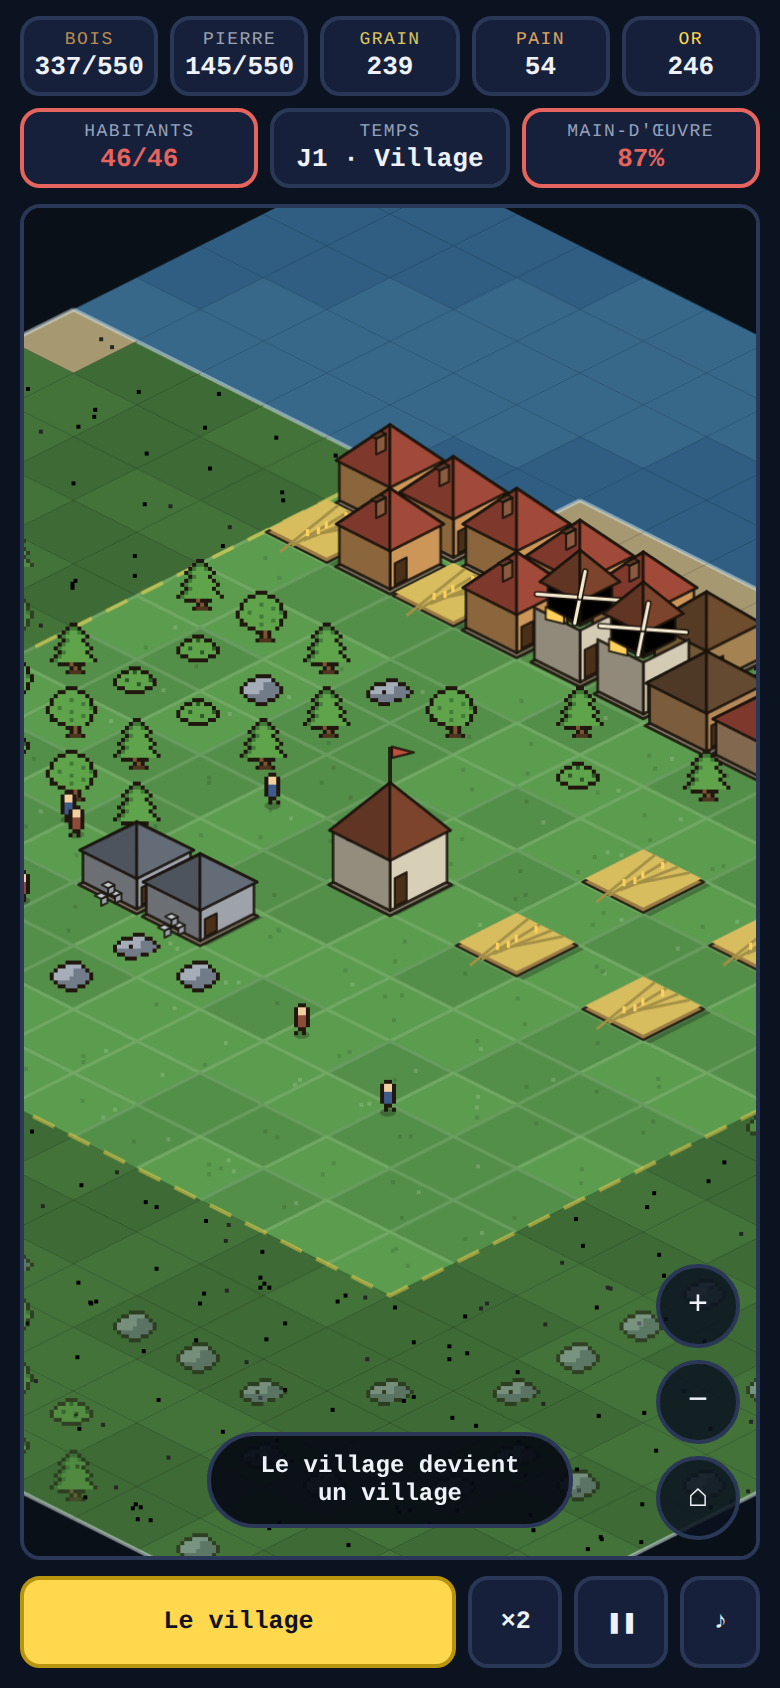
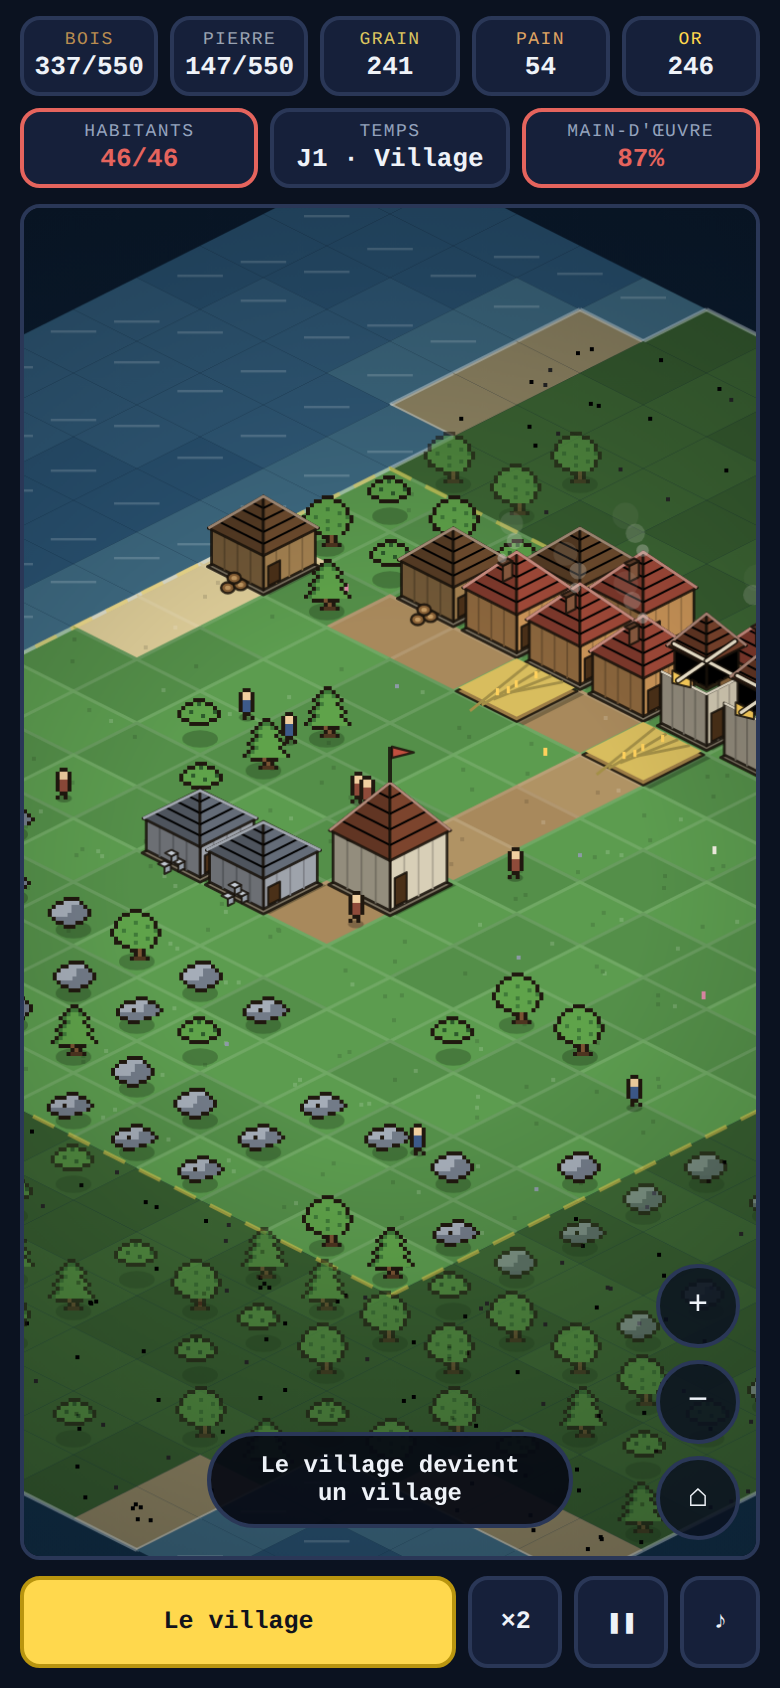
Village : reprise complète du rendu
Le premier jet donnait des cubes plats avec des étiquettes flottantes. Rendu
repris de fond en comble, sans quitter le dessin par code :

- toitures en pente à quatre pans, avec rangs de tuiles et faîtage éclairé ;
- murs à colombage et sablière sous le toit — un mur lisse fait carton ;
- chaque métier se reconnaît à sa silhouette : cheminée qui fume sur les
  maisons, tas de rondins, blocs taillés, auvent rayé du marché, portes de
  grange, tour et ailes du moulin, bannière de l'hôtel de ville ;
- chemins de terre reliant chaque bâtiment à l'hôtel de ville : c'est ce
  réseau, plus que les bâtiments, qui fait lire un village ;
- sol vivant : mouchetis stable, fleurs et cailloux semés, ombres au pied de
  chaque arbre, léger balancement du feuillage ;
- eau : hauts-fonds près du rivage, écume côté terre, crêtes qui dérivent ;
- l'île flotte sur un dégradé de haute mer, et une vignette ramène le regard
  au centre.

Les vignettes du panneau de construction montrent désormais le bâtiment
lui-même en miniature : ce qu'on choisit est exactement ce qu'on verra.

Claude-Session: https://claude.ai/code/session_016AFHnMswojyGxiSwEmvPpk

diff --git a/village/js/render.js b/village/js/render.js
@@ -19,7 +19,11 @@
     grassAlt: "#548f49",
     sand: "#e0cf9a",
     water: "#3f7fb0",
-    waterAlt: "#4a8cbb"
+    waterAlt: "#4a8cbb",
+    shallow: "#5fa3c8",
+    road: "#b09364",
+    roadAlt: "#a8895c",
+    flower: ["#f4f1e4", "#ffd15c", "#e08aa8"]
   };
 
   /* Habitants qui déambulent : ils ne servent à rien, et ils changent tout —
@@ -42,10 +46,38 @@
     return { c: World.hall.c, r: World.hall.r };
   }
 
+  /* Chemins : chaque bâtiment est relié à l'hôtel de ville par un tracé en
+     équerre. C'est ce réseau, plus que les bâtiments eux-mêmes, qui fait lire
+     un village plutôt qu'une collection de cabanes. Recalculé seulement quand
+     le village change. */
+  var roads = { version: -1, set: {} };
+
+  function markRoad(set, c, r) {
+    if (!World.inBounds(c, r)) return;
+    if (World.tile(c, r) === World.WATER) return;
+    if (World.resource(c, r) !== World.NONE) return;
+    if (World.building(c, r) !== 0) return;
+    set[c + "," + r] = true;
+  }
+
+  function buildRoads(st) {
+    var set = {};
+    var hall = World.hall;
+    for (var i = 0; i < st.buildings.length; i++) {
+      var b = st.buildings[i];
+      if (b.type === "hall") continue;
+      var c = b.c, r = b.r;
+      var sc = Math.sign(hall.c - c), sr = Math.sign(hall.r - r);
+      while (c !== hall.c) { c += sc; markRoad(set, c, r); }
+      while (r !== hall.r) { r += sr; markRoad(set, c, r); }
+    }
+    return set;
+  }
+
   var Render = {
     villagers: villagers,
 
-    reset: function () { villagers.length = 0; },
+    reset: function () { villagers.length = 0; roads.version = -1; },
 
     /* Un passant pour cinq habitants, jamais plus de douze : au-delà, on ne
        voit plus le village. */
@@ -77,13 +109,24 @@
 
     frame: function (ctx, st, now, view) {
       var k = Iso.k();
-      ctx.fillStyle = COLORS.void;
+
+      /* Au-delà de la carte, ce n'est pas du vide : c'est le large. Un dégradé
+         suffit à faire flotter l'île au lieu de la poser sur du noir. */
+      var sea = ctx.createLinearGradient(0, 0, 0, Iso.h);
+      sea.addColorStop(0, "#0b1b2e");
+      sea.addColorStop(1, "#12314a");
+      ctx.fillStyle = sea;
       ctx.fillRect(0, 0, Iso.w, Iso.h);
 
       var margin = C.TW * k * 2;
       var visible = function (p) {
         return p.x > -margin && p.x < Iso.w + margin && p.y > -margin && p.y < Iso.h + margin * 2;
       };
+
+      if (roads.version !== st.version) {
+        roads.set = buildRoads(st);
+        roads.version = st.version;
+      }
 
       /* --- Sol --- */
       for (var r = 0; r < C.ROWS; r++) {
@@ -93,12 +136,17 @@
 
           var t = World.tile(c, r);
           var out = !World.inTerritory(c, r);
+          var road = roads.set[c + "," + r] === true;
           var color;
           if (t === World.WATER) {
             /* L'eau respire : deux tons qui alternent lentement, décalés
-               d'une case à l'autre. */
+               d'une case à l'autre, et s'éclaircit près du rivage. */
             var wave = Math.sin(now / 700 + (c + r) * 0.6) > 0;
-            color = wave ? COLORS.water : COLORS.waterAlt;
+            var shallow = World.tile(c - 1, r) !== World.WATER || World.tile(c + 1, r) !== World.WATER
+              || World.tile(c, r - 1) !== World.WATER || World.tile(c, r + 1) !== World.WATER;
+            color = shallow ? COLORS.shallow : (wave ? COLORS.water : COLORS.waterAlt);
+          } else if (road) {
+            color = World.speck(c, r, 0) > 0.5 ? COLORS.road : COLORS.roadAlt;
           } else if (t === World.SAND) {
             color = COLORS.sand;
           } else {
@@ -111,6 +159,25 @@
             speckle: t === World.WATER ? null : function (i) { return World.speck(c, r, i); }
           });
 
+          /* Fleurs et cailloux : trois pixels par-ci par-là, toujours aux
+             mêmes endroits. C'est ce semis qui empêche la prairie de faire
+             moquette. */
+          if (t === World.GRASS && !out && !road && k >= 2) {
+            var deco = World.speck(c, r, 11);
+            if (deco > 0.82) {
+              var dx = (World.speck(c, r, 12) - 0.5) * C.TW * 0.45 * k;
+              var dy = (World.speck(c, r, 13) - 0.5) * C.TH * 0.45 * k;
+              var px = Math.max(1, Math.round(k * 0.9));
+              ctx.fillStyle = deco > 0.93
+                ? "#8d9aa6"
+                : COLORS.flower[Math.floor(World.speck(c, r, 14) * 3) % 3];
+              ctx.fillRect(Math.round(p.x + dx), Math.round(p.y + dy), px, px);
+              if (deco <= 0.93) {
+                ctx.fillRect(Math.round(p.x + dx), Math.round(p.y + dy + px), px, px);
+              }
+            }
+          }
+
           /* Écume au bord de l'eau : on la dessine côté terre, là où la vague
              vient mourir. */
           if (t !== World.WATER) {
@@ -121,6 +188,16 @@
               World.tile(c, r + 1) === World.WATER    // sud-ouest
             ];
             if (sides[0] || sides[1] || sides[2] || sides[3]) Art.shore(ctx, p.x, p.y, k, sides);
+          } else if (k >= 2) {
+            /* Deux traits clairs qui dérivent : sans eux, l'eau est une nappe
+               de peinture bleue. */
+            var phase = (now / 2200 + World.speck(c, r, 6)) % 1;
+            ctx.fillStyle = "rgba(226,240,246,0.22)";
+            ctx.fillRect(
+              Math.round(p.x - C.TW * 0.18 * k),
+              Math.round(p.y + (phase - 0.5) * C.TH * 0.5 * k),
+              Math.round(C.TW * 0.36 * k), Math.max(1, k * 0.6)
+            );
           }
         }
       }
@@ -178,15 +255,26 @@
           pos = Iso.toScreen(it.c, it.r);
           if (!visible(pos)) continue;
           dim = !World.inTerritory(it.c, it.r);
-          ctx.globalAlpha = dim ? 0.55 : 1;
-          Art.drawFoot(ctx, it.kind, pos.x, pos.y + (C.TH / 2) * k * 0.6, Math.max(1, k));
+          ctx.globalAlpha = dim ? 0.6 : 1;
+          /* Ombre au pied de l'arbre : c'est elle qui le pose sur l'herbe. */
+          ctx.save();
+          ctx.globalAlpha *= 0.28;
+          ctx.fillStyle = "#12240f";
+          ctx.beginPath();
+          ctx.ellipse(pos.x, pos.y + (C.TH / 2) * k * 0.5, k * 4.5, k * 2.2, 0, 0, Math.PI * 2);
+          ctx.fill();
+          ctx.restore();
+          /* Balancement : un pixel de va-et-vient, décalé d'un arbre à
+             l'autre. Une forêt parfaitement immobile a l'air peinte. */
+          var sway = Math.sin(now / 1400 + (it.c + it.r) * 0.9) * k * 0.8;
+          Art.drawFoot(ctx, it.kind, pos.x + sway, pos.y + (C.TH / 2) * k * 0.6, Math.max(1, k));
           ctx.globalAlpha = 1;
         } else if (it.kind === "building") {
           pos = Iso.toScreen(it.b.c, it.b.r);
           if (!visible(pos)) continue;
           var def = Sim.def(it.b.type);
           var selected = view.selected && view.selected.c === it.b.c && view.selected.r === it.b.r;
-          Art.building(ctx, pos.x, pos.y, k, def, { spin: now / 400 });
+          Art.building(ctx, pos.x, pos.y, k, def, { spin: now / 400, now: now, seed: it.b.id });
           if (selected) {
             Art.tileOutline(ctx, pos.x, pos.y, k, "rgba(255,216,77,0.95)", Math.max(1, k));
           }
@@ -205,6 +293,21 @@
           Art.drawFoot(ctx, it.v.skin, pos.x, pos.y + bob, Math.max(1, k));
         }
       }
+
+      Render.vignette(ctx);
+    },
+
+    /* Vignette : quatre coins à peine assombris. Rien ne se voit, tout se
+       sent — le regard tombe au centre de la carte. */
+    vignette: function (ctx) {
+      var g = ctx.createRadialGradient(
+        Iso.w / 2, Iso.h / 2, Math.min(Iso.w, Iso.h) * 0.35,
+        Iso.w / 2, Iso.h / 2, Math.max(Iso.w, Iso.h) * 0.75
+      );
+      g.addColorStop(0, "rgba(0,0,0,0)");
+      g.addColorStop(1, "rgba(3,8,16,0.45)");
+      ctx.fillStyle = g;
+      ctx.fillRect(0, 0, Iso.w, Iso.h);
     },
 
     /* Le territoire se lit d'un trait clair sur le sol : dedans on bâtit,

diff --git a/village/js/art.js b/village/js/art.js
@@ -209,7 +209,7 @@
        claire au nord. Sans ce grain, le sol fait carrelage de salle de bain. */
     tile: function (ctx, sx, sy, k, opts) {
       var pts = V.Iso.diamond(sx, sy, k);
-      var color = opts.dim ? shade(opts.color, -0.26) : opts.color;
+      var color = opts.dim ? shade(opts.color, -0.34) : opts.color;
 
       poly(ctx, pts, color, null);
 
@@ -272,10 +272,37 @@
       var hw = (C.TW / 2) * k * w;
       var hh = (C.TH / 2) * k * w;
 
-      poly(ctx, [[sx, sy + hh], [sx + hw, sy], [sx + hw, sy - h], [sx, sy + hh - h]],
-        shade(wall, -0.06), OUTLINE, lw);
-      poly(ctx, [[sx, sy + hh], [sx - hw, sy], [sx - hw, sy - h], [sx, sy + hh - h]],
-        shade(wall, -0.36), OUTLINE, lw);
+      var right = [[sx, sy + hh], [sx + hw, sy], [sx + hw, sy - h], [sx, sy + hh - h]];
+      var left = [[sx, sy + hh], [sx - hw, sy], [sx - hw, sy - h], [sx, sy + hh - h]];
+
+      poly(ctx, right, shade(wall, -0.06), OUTLINE, lw);
+      poly(ctx, left, shade(wall, -0.36), OUTLINE, lw);
+
+      /* Montants de colombage : trois traits par face. Un mur parfaitement
+         lisse fait carton, pas maison. */
+      ctx.lineWidth = Math.max(1, k * 0.45);
+      for (var i = 1; i <= 3; i++) {
+        var t = i / 4;
+        ctx.strokeStyle = shade(wall, -0.24);
+        ctx.beginPath();
+        ctx.moveTo(sx + hw * t, sy + hh - hh * t);
+        ctx.lineTo(sx + hw * t, sy + hh - hh * t - h);
+        ctx.stroke();
+        ctx.strokeStyle = shade(wall, -0.5);
+        ctx.beginPath();
+        ctx.moveTo(sx - hw * t, sy + hh - hh * t);
+        ctx.lineTo(sx - hw * t, sy + hh - hh * t - h);
+        ctx.stroke();
+      }
+
+      /* Sablière : le bandeau clair sous la toiture. */
+      ctx.strokeStyle = shade(wall, 0.2);
+      ctx.lineWidth = Math.max(1, k * 0.6);
+      ctx.beginPath();
+      ctx.moveTo(sx - hw, sy - h);
+      ctx.lineTo(sx, sy + hh - h);
+      ctx.lineTo(sx + hw, sy - h);
+      ctx.stroke();
 
       return h;
     },
@@ -290,11 +317,48 @@
       var apex = [sx, sy - height * k];
       var N = [sx, sy - hh], E = [sx + hw, sy], S = [sx, sy + hh], W = [sx - hw, sy];
 
-      poly(ctx, [W, N, apex], shade(color, 0.08), OUTLINE, lw);
-      poly(ctx, [N, E, apex], shade(color, 0.24), OUTLINE, lw);
-      poly(ctx, [W, S, apex], shade(color, -0.30), OUTLINE, lw);
-      poly(ctx, [E, S, apex], shade(color, -0.10), OUTLINE, lw);
+      Art.roofFace(ctx, [W, N, apex], shade(color, 0.08), lw, k);
+      Art.roofFace(ctx, [N, E, apex], shade(color, 0.24), lw, k);
+      Art.roofFace(ctx, [W, S, apex], shade(color, -0.30), lw, k);
+      Art.roofFace(ctx, [E, S, apex], shade(color, -0.10), lw, k);
+
+      /* Faîtage : la ligne de crête attrape la lumière et referme la
+         toiture. */
+      ctx.beginPath();
+      ctx.moveTo(W[0], W[1]);
+      ctx.lineTo(apex[0], apex[1]);
+      ctx.lineTo(E[0], E[1]);
+      ctx.strokeStyle = shade(color, 0.35);
+      ctx.lineWidth = Math.max(1, k * 0.7);
+      ctx.stroke();
+
       return apex;
+    },
+
+    /* Un pan de toiture : l'aplat, puis quatre rangs de tuiles parallèles à
+       l'égout. C'est ce qui distingue une toiture d'un triangle de couleur —
+       et ça ne coûte que quatre traits. */
+    roofFace: function (ctx, tri, color, lw, k) {
+      poly(ctx, tri, color, OUTLINE, lw);
+
+      ctx.save();
+      ctx.beginPath();
+      ctx.moveTo(tri[0][0], tri[0][1]);
+      ctx.lineTo(tri[1][0], tri[1][1]);
+      ctx.lineTo(tri[2][0], tri[2][1]);
+      ctx.closePath();
+      ctx.clip();
+
+      ctx.strokeStyle = shade(color, -0.22);
+      ctx.lineWidth = Math.max(1, k * 0.5);
+      for (var i = 1; i <= 4; i++) {
+        var t = i / 5;
+        ctx.beginPath();
+        ctx.moveTo(tri[0][0] + (tri[2][0] - tri[0][0]) * t, tri[0][1] + (tri[2][1] - tri[0][1]) * t);
+        ctx.lineTo(tri[1][0] + (tri[2][0] - tri[1][0]) * t, tri[1][1] + (tri[2][1] - tri[1][1]) * t);
+        ctx.stroke();
+      }
+      ctx.restore();
     },
 
     /* Ouvertures : une porte sur l'arête sud, une fenêtre allumée sur la face
@@ -376,7 +440,10 @@
 
       /* Accessoires : c'est à eux qu'on reconnaît le métier d'un coup d'œil. */
       switch (style) {
-        case "house": Art.chimney(ctx, sx - u * 3.5, sy - h - u * 1.5, k); break;
+        case "house":
+          Art.chimney(ctx, sx - u * 3.5, sy - h - u * 1.5, k);
+          if (opts.now !== undefined) Art.smoke(ctx, sx - u * 2.3, sy - h - u * 7, k, opts.seed || 0, opts.now);
+          break;
         case "lumber": Art.logs(ctx, sx - u * 9, sy + hh * 0.75, k); break;
         case "quarry": Art.stones(ctx, sx - u * 9, sy + hh * 0.75, k); break;
         case "market": Art.awning(ctx, sx, sy, k, h, w); break;
@@ -413,6 +480,19 @@
         if (Math.abs(dx) / hw + Math.abs(dy) / hh > 0.7) continue;
         ctx.fillStyle = "#ffd15c";
         ctx.fillRect(Math.round(sx + dx), Math.round(sy - k * 2.2 + dy), Math.max(1, k * 0.8), Math.max(1, k * 1.8));
+      }
+    },
+
+    /* Fumée : trois bouffées qui montent et s'effacent. Un village où
+       personne ne fait de feu a l'air abandonné. */
+    smoke: function (ctx, x, y, k, seed, now) {
+      for (var i = 0; i < 3; i++) {
+        var t = ((now / 2600) + seed * 0.37 + i * 0.33) % 1;
+        var r = k * (1.1 + t * 2.6);
+        ctx.beginPath();
+        ctx.arc(x + Math.sin(t * 5 + seed) * k * 2.2, y - t * k * 13, r, 0, Math.PI * 2);
+        ctx.fillStyle = "rgba(232,230,222," + (0.42 * (1 - t)).toFixed(3) + ")";
+        ctx.fill();
       }
     },
 

diff --git a/village/js/sim.js b/village/js/sim.js
@@ -31,6 +31,7 @@
         pop: C.START_POP,
         buildings: [],
         nextId: 1,
+        version: 0,          // incrémenté à chaque construction ou démolition
         expandBought: 0,
         famineDays: 0,
         seed: seed || 1,
@@ -87,6 +88,7 @@
         built: st.t
       };
       st.buildings.push(b);
+      st.version++;
       World.setOccupied(c, r, b.id);
       if (!free) st.stats.built++;
       return b;
@@ -102,6 +104,7 @@
       }
       World.setOccupied(b.c, b.r, 0);
       st.buildings.splice(st.buildings.indexOf(b), 1);
+      st.version++;
       return true;
     },
 
@@ -112,6 +115,7 @@
       if (st.res.gold < cost) return false;
       st.res.gold -= cost;
       st.expandBought++;
+      st.version++;
       World.expand();
       Sim.notify(st, "Territoire agrandi");
       return true;
